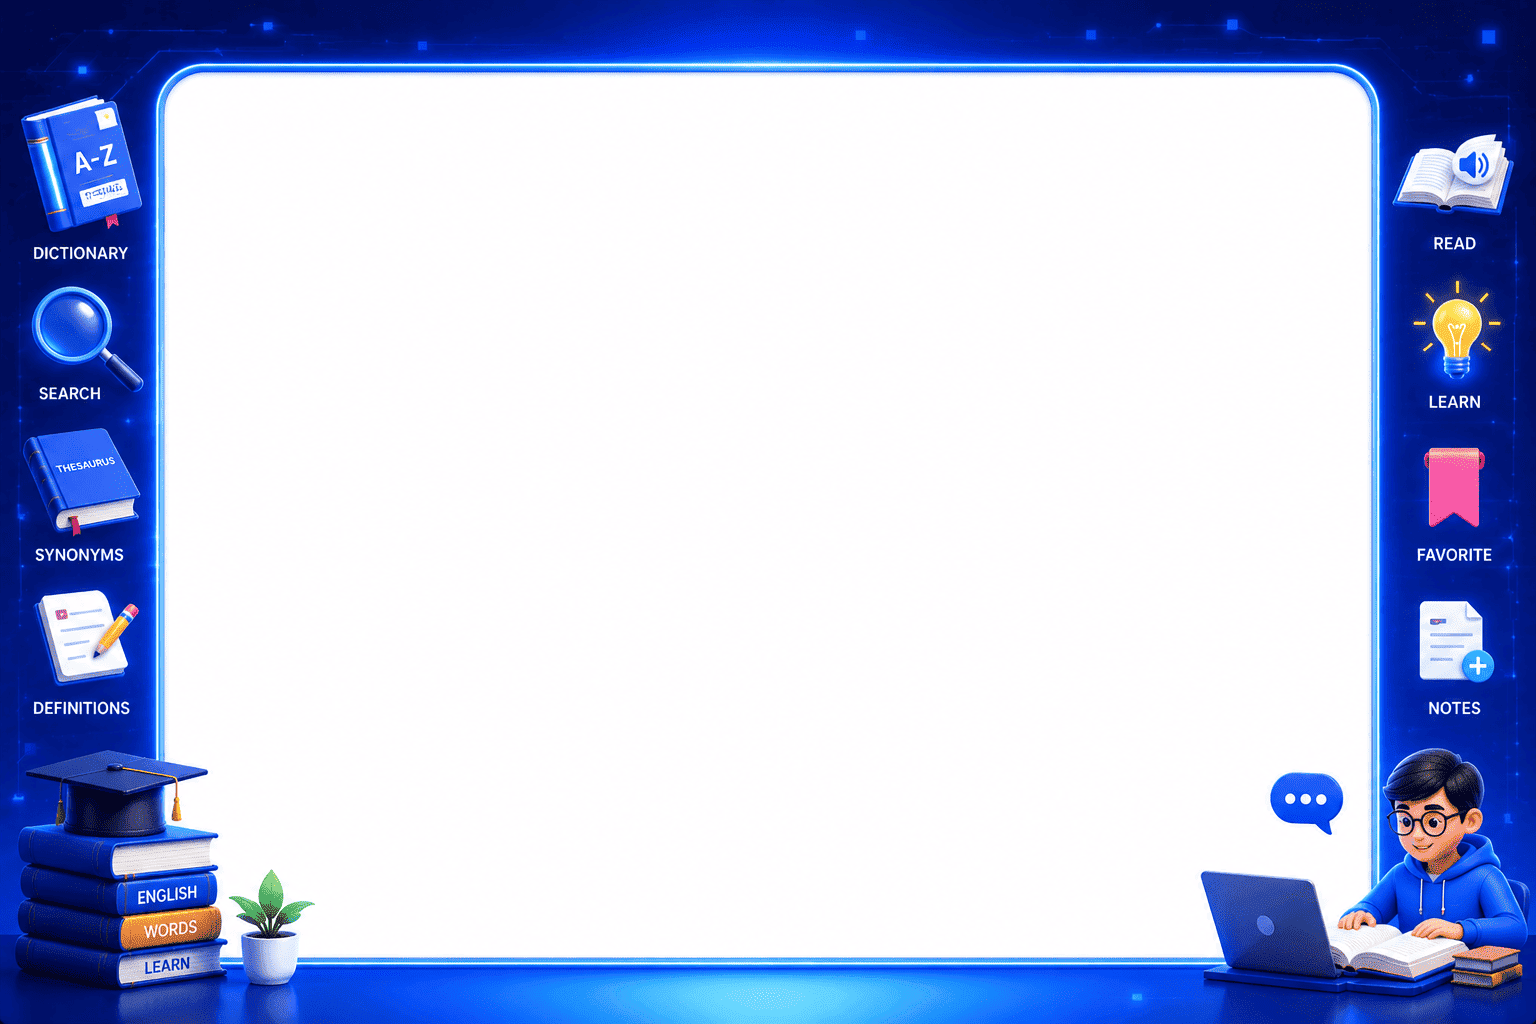
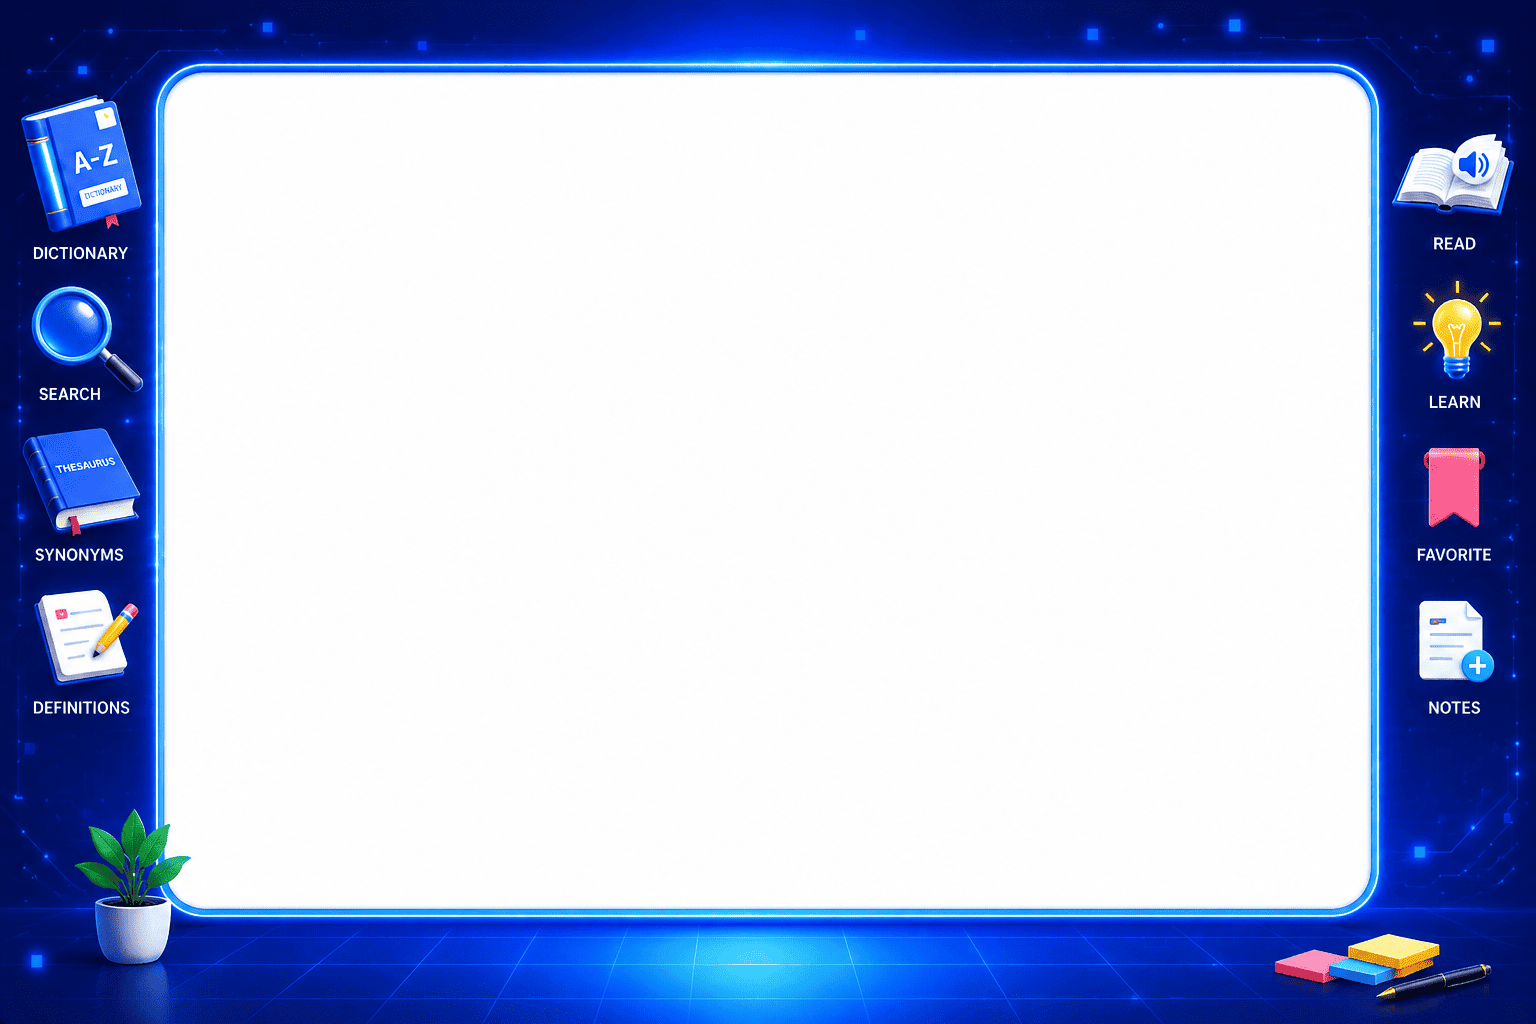
[update] -- moral of the story - [subhash]

Changed region(s): [[0.0, 0.0312, 1.0, 1.0], [0.9375, 0.0312, 1.0, 0.0625], [0.7812, 0.0, 0.8125, 0.0312]]

diff --git a/js/newActJS/templates.js b/js/newActJS/templates.js
@@ -600,8 +600,8 @@ const Activity = (() => {
             }
 
             temp.render(questionId, activityId);
-            
-            if( Define.get('loadScript') ) await Define.get('loadScript')('js/newActJS/MathJax-2.7.9/MathJax.js?config=TeX-MML-AM_CHTML');
+
+            if (Define.get('loadScript')) await Define.get('loadScript')('js/newActJS/MathJax-2.7.9/MathJax.js?config=TeX-MML-AM_CHTML');
         } catch (err) {
             console.error('Activity.render : ', err);
         }
@@ -2727,12 +2727,29 @@ const JumbleLetters = (() => {
 
             $("#letterContainer").empty();
 
+            const config = data?.config;
+
+            const defaultCol = {
+                md: 6,
+                sm: 12,
+                col: 12
+            };
+            const col = {
+                md: config?.col?.md ?? defaultCol.md,
+                sm: config?.col?.sm ?? defaultCol.sm,
+                col: config?.col?.col ?? defaultCol.col
+            };
+
+
+            const colSize = `col-sm-${col.sm} col-md-${col.md} col-${col.col}`;
+
             const words = data?.content;
+
             words.forEach((word, index) => {
                 const jumbled = shuffle(word);
 
                 const gameBox = $(`
-                    <div class="col-md-6 col-12 col-sm-12">
+                    <div class="${colSize}">
                         <div class="rowLines">
                         <div class="numb">${index + 1}.</div>
                         <div class="letterjumbRow" id="letters-${index}" aria-label="Arrange the letters for ${word}"></div>
@@ -3216,39 +3233,60 @@ const Mcq_PathKaSaar = (() => {
             }
 
             const activity = Activity.getDefine(questionId) ?? {};
+            const content = activity?.content ?? {};
             const lang = activity.lang ?? 'en';
 
-            parent.innerHTML = `
-                            <div class="mcqOuterScorV2_">
-                                <img class="backImgsM1" draggable="false" src="images/mcq.png"/>
-                                <div class="question mcq_1MenV2">
-                                    <div class="container">
-                                        <div class="rowWithAudios">
-                                            <span class="m-0 ${Define.get('head')}"></span> 
-                                            <span class="colorsDiff ${Define.get('subHead')}"></span>
-                                        </div>
-                                        <div class="mcq-context p-1"></div>
-                                        <div id="${heading}"></div>
+            const only_text =
+                !!content.text?.text?.trim() &&
+                !content.img &&
+                (!content.mcq || content.mcq.length === 0);
+
+            const text = content.text?.text?.trim();
+
+            parent.innerHTML = only_text ? `
+                        <div class="match1Back">
+                            <img class="backImgsM1" draggable="false" src="images/moralAct.jpg"/>
+                            <div class="onTheImagesFill2">
+                                <div class="question p-3 h-100">
+                                    <div class="textontheImgs">
+                                        ${text}
                                     </div>
                                 </div>
-                                 <div id="popupDialogAns">
-                                            <div class="baseMod">
-                                                <div class="answerdiv">
-                                                    <div class="d-flex justify-content-between align-items-center mb-3">
-                                                        <h4 id="scoreTextQ1" class="text-center mb-3"></h4>
-                                                        <button id="close-popup" class="btn btn-secondary">X</button>
-                                                    </div>
-                                                    <div id="answerShowMCW"></div>
-                                                </div>
-                                            </div>
+                            </div>
+                        </div>`
+                :
+                `<div class="mcqOuterScorV2_">
+                            <img class="backImgsM1" draggable="false" src="images/mcq.png"/>
+                            <div class="question mcq_1MenV2">
+                                <div class="container">
+                                    <div class="rowWithAudios">
+                                        <span class="m-0 ${Define.get('head')}"></span> 
+                                        <span class="colorsDiff ${Define.get('subHead')}"></span>
+                                    </div>
+                                    <div class="mcq-context p-1"></div>
+                                    <div id="${heading}"></div>
                                 </div>
                             </div>
+                                <div id="popupDialogAns">
+                                <div class="baseMod">
+                                    <div class="answerdiv">
+                                        <div class="d-flex justify-content-between align-items-center mb-3">
+                                            <h4 id="scoreTextQ1" class="text-center mb-3"></h4>
+                                            <button id="close-popup" class="btn btn-secondary">X</button>
+                                        </div>
+                                        <div id="answerShowMCW"></div>
+                                    </div>
+                                </div>
+                            </div>
+                        </div>
                    `;
 
             // ..
 
             const closeBtn = parent.querySelector('#close-popup');
             if (closeBtn) closeBtn.addEventListener("click", closeFnMCQ);
+
+            return {only_text}
         } catch (e) {
             console.error('Mcq.ui :', e);
         }
@@ -3256,7 +3294,9 @@ const Mcq_PathKaSaar = (() => {
 
     const renderAllQuestionsMCQ = (questionId) => {
         try {
-            ui(questionId);
+            const {only_text} = ui(questionId);
+
+            if (only_text) return;
 
             const headElem = Activity.setHeader(questionId);
             if (!headElem.head && !headElem.subhead) {
@@ -7283,7 +7323,7 @@ const Pdf = (() => {
             }
 
             const response = await fetch(path, { method: 'HEAD' });
-            if ( !response.ok ) {
+            if (!response.ok) {
                 toggle_loader(false);
 
                 const containerClass = Define.get('questionContainer');
@@ -7297,7 +7337,7 @@ const Pdf = (() => {
                 return;
             }
 
-            const downloadBtn     = document.getElementById("downloadBtn");
+            const downloadBtn = document.getElementById("downloadBtn");
             const downloadAllowed = activity?.content?.download;
             if (downloadBtn && downloadAllowed) {
                 downloadBtn.onclick = () => {
@@ -7307,7 +7347,7 @@ const Pdf = (() => {
                     a.click();
                 };
             } else {
-                if( downloadBtn ) downloadBtn.remove();
+                if (downloadBtn) downloadBtn.remove();
             }
 
             toggle_loader(true);
@@ -7334,7 +7374,7 @@ const Pdf = (() => {
             try {
                 pdfDoc = await loadingTask.promise;
             } catch (err) {
-                console.log( err );
+                console.log(err);
                 return;
             }
 
@@ -9134,7 +9174,7 @@ const CrossWord = (() => {
                             }
 
                         }
-                        
+
                         const showFirstLetter = (showHint && answer) ? `value="${answer.charAt(0).toUpperCase()}"` : '';
                         table.push(
                             `
@@ -12456,7 +12496,7 @@ const AudioAndVideoFromYoutube = (() => {
                 });
             }
 
-            if( Define.get('loadScript') ) {
+            if (Define.get('loadScript')) {
                 await Define.get('loadScript')('https://www.youtube.com/iframe_api');
                 await ytReady;
                 buttonUI();

diff --git a/js/newActJS/define.js b/js/newActJS/define.js
@@ -59,6 +59,7 @@ const Define = (() => {
         { qid: 41, text: ['Q-41', 'qid:41; mid:19 - Shabdkosh type-2'], module: 19 },
         { qid: 42, text: ['Q-42', 'qid:42; mid:40 - Virtual Tour'], module: 40 },
         { qid: 43, text: ['Q-43', 'qid:43; mid:41 - Circle and underline'], module: 41 },
+        { qid: 45, text: ['Q-45', 'qid:45; mid:9 - Moral of the chapter'], module: 9 },
     ];
 
     // DEFINE QUESTIONS
@@ -590,6 +591,13 @@ const Define = (() => {
             lang: 'hi',
             head: 'Template : 6',
             subhead: 'text.. `theta`',
+            config: {
+                col: {
+                    md: 12,
+                    sm: 12,
+                    col: 12
+                },
+            },
             content: [
                 'SCHOOL', 'TEACHER', 'STUDENT', 'BOOK', '`theta`',
                 'CLASS', 'COLLEGE', 'EXAM', 'LEARN', 'STUDY'
@@ -1809,6 +1817,15 @@ const Define = (() => {
                         }
                     }
                 ]
+            }
+        },
+        // id : 45,
+        {
+            id: 45,
+            content: {
+                text: {
+                    text: 'We are all equal in the eyes of God.',
+                },
             }
         },
     ];

diff --git a/css/lbdText.css b/css/lbdText.css
@@ -1821,7 +1821,8 @@ body {
 
 .onTheImagesFill2 {
   position: absolute;
-  top: 14vh;
+  top: 9vh;
+  /* top: 14vh; */
   left: 50%;
   width: 80%;
   height: 70vh;
@@ -1909,6 +1910,21 @@ body {
   transform: translate(-50%, 18%);
   overflow: auto;
   padding: 3.5vw 0;
+}
+
+.textontheImgs {
+  width: 54%;
+  /* border: 1px solid #fffdfd; */
+  margin: 10vh auto;
+  height: 38vh;
+  display: flex;
+  justify-content: center;
+  align-items: center;
+  text-align: center;
+  padding: 0.5vw;
+  font-size: 2vw;
+  color: #000;
+  overflow: auto;
 }
 
 /* =========================

diff --git a/css/newActCss/pdf.css b/css/newActCss/pdf.css
@@ -7,11 +7,11 @@
         body {
             height: 100vh;
 
-            background:
+            /* background:
                 linear-gradient(135deg,
                     #9cf7cb,
                     #d9fff1,
-                    #ffffff);
+                    #ffffff); */
 
             font-family: Arial;
             overflow: hidden;
